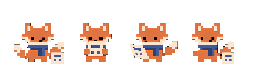
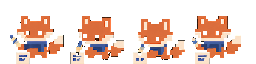
chat: rebuild sprite from animate.png, slow loop further
Idle 3.2s → 6s, thinking 1.4s → 2.4s. Uses the original (black-bg)
sprite sheet with near-black pixels dropped to transparent and uniform
scale across all four frames.

diff --git a/chat/chat.css b/chat/chat.css
@@ -184,10 +184,10 @@ img { image-rendering: pixelated; }
   background-size: 128px 32px;
   background-position: 0 0;
   image-rendering: pixelated;
-  animation: foxwalk 3.2s steps(4) infinite;
+  animation: foxwalk 6s steps(4) infinite;
 }
 .msg-assistant.thinking .avatar {
-  animation-duration: 1.4s;
+  animation-duration: 2.4s;
 }
 @keyframes foxwalk {
   from { background-position: 0 0; }
